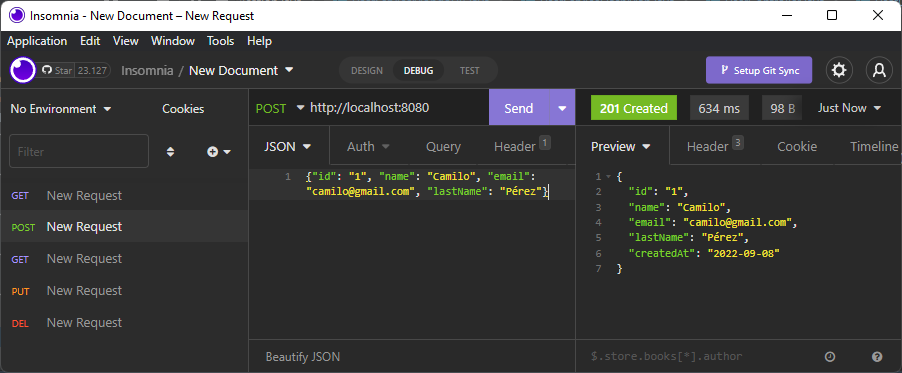
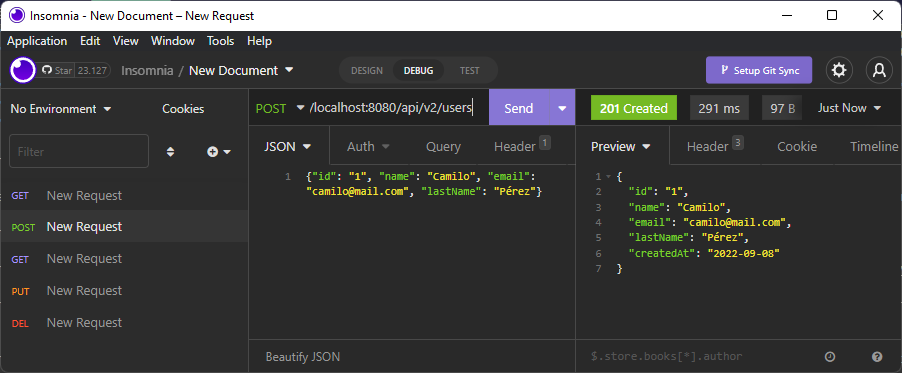
Actualización README.md

diff --git a/README.md b/README.md
@@ -126,7 +126,7 @@ Después de seguir las instrucciones y de realizar las implementaciones necesari
 
 #### - Create
 
-Se le pide al servicio crear un usuario mediante el envío de una petición `POST` a `http://localhost:8080` con las siguientes características:
+Se le pide al servicio crear un usuario mediante el envío de una petición `POST` a `http://localhost:8080/api/v2/users` con las siguientes características:
 
 ```json
 {"id": "1", "name": "Camilo", "email": "camilo@gmail.com", "lastName": "Pérez"}
@@ -150,7 +150,7 @@ En este caso el código de respuesta ya es satisfactorio.
 
 #### - Get All
 
-Se realiza una petición `GET` a la dirección `http://localhost:8080` con el fin de obtener los usuarios registrados en el sistema hasta el momento.
+Se realiza una petición `GET` a la dirección `http://localhost:8080/api/v2/users` con el fin de obtener los usuarios registrados en el sistema hasta el momento.
 
 <img src='img/test-getAll.png'>
 
@@ -161,13 +161,13 @@ Si verificamos desde la aplicación web de Mongo podemos ver los dos usuarios re
 
 #### - Find By Id
 
-Se realiza nuevamente una petición `GET` a la dirección `http://localhost:8080/1`, pero como se puede ver, indicando en el path de la dirección el ***id*** del usuario a consultar, en este caso vamos a consultar el primer usuario registrado anteriormente
+Se realiza nuevamente una petición `GET` a la dirección `http://localhost:8080/api/v2/users/1`, pero como se puede ver, indicando en el path de la dirección el ***id*** del usuario a consultar, en este caso vamos a consultar el primer usuario registrado anteriormente
 
 <img src='img/test-findById.png'>
 
 #### - Update
 
-Se realiza una petición `POST` nuevamente indicando en la dirección el ***id*** del usuario a modificar, en este caso modificaremos los datos del segundo usuario registrado enviando la siguiente información:
+Se realiza una petición `POST` a `http://localhost:8080/api/v2/users/2` nuevamente indicando en la dirección el ***id*** del usuario a modificar, en este caso modificaremos los datos del segundo usuario registrado enviando la siguiente información:
 
 ```json
 {"id": "2", "name": "Juan Pablo", "email": "pablolopez@mail.com", "lastName": "López Niño"}
@@ -179,7 +179,7 @@ Como se puede ver en la respuesta del mensaje, los cambios se realizaron correct
 
 #### - Delete
 
-Finalmente enviamos una petición `DEL` a `http://localhost:8080/1`, como se puede ver, indicando el ***id*** del primer usuario registrado con el fin de eliminar su registro:
+Finalmente enviamos una petición `DEL` a `http://localhost:8080/api/v2/users/1`, como se puede ver, indicando el ***id*** del primer usuario registrado con el fin de eliminar su registro:
 
 <img src='img/test-delete.png'>
 
